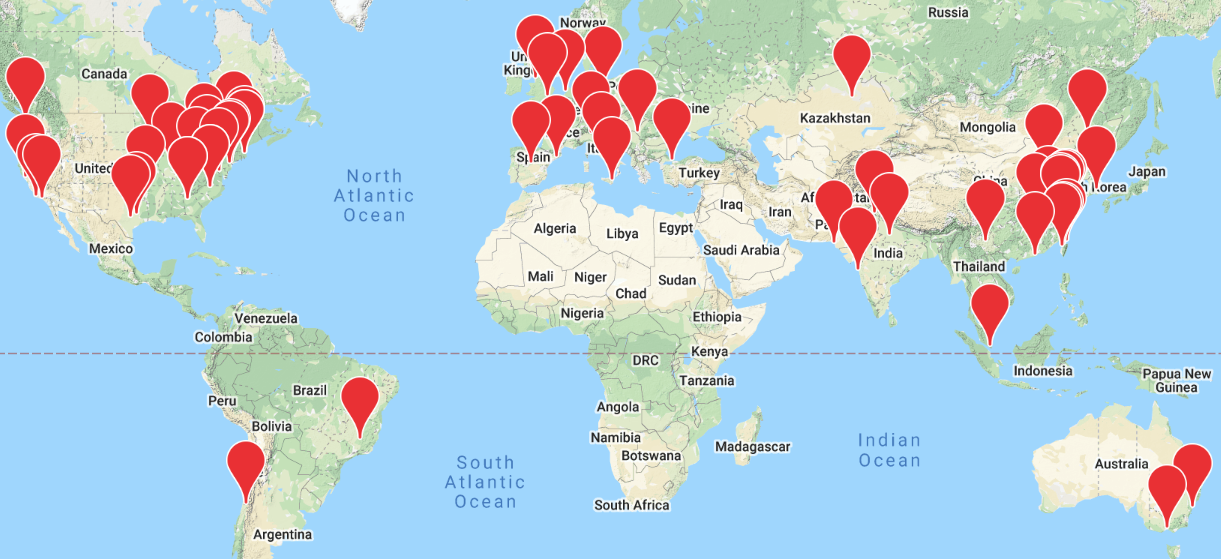
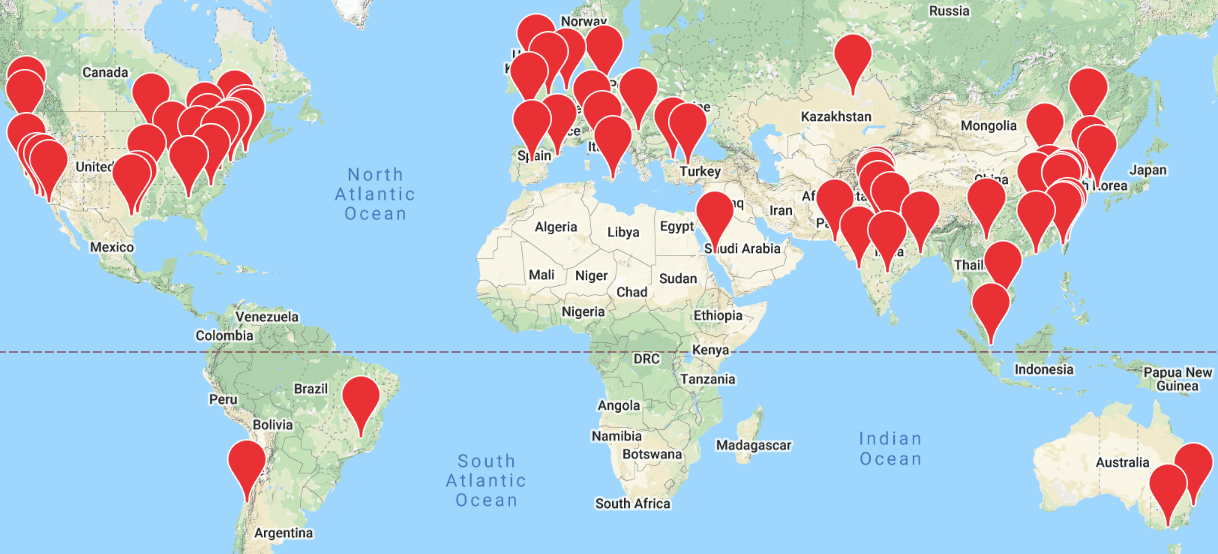
add 12 univs

diff --git a/static/frontpage/frontpage.html b/static/frontpage/frontpage.html
@@ -319,6 +319,7 @@ a {
         <div class = "mdl-cell mdl-cell--2-col"> <img src="./_images/logos/Duke_University_logo.svg" /> </div>
         <div class = "mdl-cell mdl-cell--2-col"> <img src="./_images/logos/emory.png" /> </div>
         <div class = "mdl-cell mdl-cell--2-col"> <img src="./_images/logos/fudan.svg" /></div>
+        <div class = "mdl-cell mdl-cell--2-col"> <img src="./_images/logos/gazi.png" /></div>
         <div class = "mdl-cell mdl-cell--2-col"> <img src="./_images/logos/georgia_tech.svg" /></div>
         <div class = "mdl-cell mdl-cell--2-col"> <img src="./_images/logos/Habib_University.png" /></div>
         <div class = "mdl-cell mdl-cell--2-col"> <img src="./_images/logos/HIT.png" /></div>
@@ -329,14 +330,21 @@ a {
         <div class = "mdl-cell mdl-cell--2-col"> <img src="./_images/logos/Imperial_college_london.svg" /></div>
         <div class = "mdl-cell mdl-cell--2-col"> <img src="./_images/logos/IIT-bombay.png" /></div>
         <div class = "mdl-cell mdl-cell--2-col"> <img src="./_images/logos/IIT_Kanpur.svg" /></div>
+        <div class = "mdl-cell mdl-cell--2-col"> <img src="./_images/logos/IIT_Kharagpur_Logo.svg" /></div>
+        <div class = "mdl-cell mdl-cell--2-col"> <img src="./_images/logos/Indian_Institute_of_Technology_Mandi_Logo.png" /></div>
         <div class = "mdl-cell mdl-cell--2-col"> <img src="./_images/logos/IIT_Ropar.png" /></div>
+        <div class = "mdl-cell mdl-cell--2-col"> <img src="./_images/logos/Indraprastha_Institute_of_Information_Technology_Delhi_Logo.png" /></div>
+        <div class = "mdl-cell mdl-cell--2-col"> <img src="./_images/logos/isen.png" /></div>
         <div class = "mdl-cell mdl-cell--2-col"> <img src="./_images/logos/Istanbul_Technical_University.svg" /></div>
+        <div class = "mdl-cell mdl-cell--2-col"> <img src="./_images/logos/KAUST_Logo.svg" /></div>
         <div class = "mdl-cell mdl-cell--2-col"> <img src="./_images/logos/kyungpook-national.png" /></div>
         <div class = "mdl-cell mdl-cell--2-col"> <img src="./_images/logos/lancaster-university.png" /></div>
         <div class = "mdl-cell mdl-cell--2-col"> <img src="./_images/logos/mit.svg" /></div>
         <div class = "mdl-cell mdl-cell--2-col"> <img src="./_images/logos/mcgill.png" /></div>
         <div class = "mdl-cell mdl-cell--2-col"> <img src="./_images/logos/Monash-shield.png" /></div>
         <div class = "mdl-cell mdl-cell--2-col"> <img src="./_images/logos/national_chung_hsing.png" /></div>
+        <div class = "mdl-cell mdl-cell--2-col"> <img src="./_images/logos/NITTTR.png" /></div>
+        <div class = "mdl-cell mdl-cell--2-col"> <img src="./_images/logos/National_Institute_of_Technology,_Warangal_logo.png" /></div>
         <div class = "mdl-cell mdl-cell--2-col"> <img src="./_images/logos/national_taiwan.png" /></div>
         <div class = "mdl-cell mdl-cell--2-col"> <img src="./_images/logos/National_United_University.svg" /></div>
         <div class = "mdl-cell mdl-cell--2-col"> <img src="./_images/logos/nus.png" /></div>
@@ -345,10 +353,12 @@ a {
         <div class = "mdl-cell mdl-cell--2-col"> <img src="./_images/logos/Ohio_University_seal.svg" /></div>
         <div class = "mdl-cell mdl-cell--2-col"> <img src="./_images/logos/peking.svg" /></div>
         <div class = "mdl-cell mdl-cell--2-col"> <img src="./_images/logos/Pontificia_Universidad_Catolica_de_Chile.svg" /></div>
+        <div class = "mdl-cell mdl-cell--2-col"> <img src="./_images/logos/Portland_State_University_seal.svg" /></div>
         <div class = "mdl-cell mdl-cell--2-col"> <img src="./_images/logos/Rutgers_University_seal.svg" /></div>
         <div class = "mdl-cell mdl-cell--2-col"> <img src="./_images/logos/sapienza.png" /></div>
         <div class = "mdl-cell mdl-cell--2-col"> <img src="./_images/logos/sjtu.png" /></div>
         <div class = "mdl-cell mdl-cell--2-col"> <img src="./_images/logos/Shanghai_University_of_Finance_and_Economics.png" /></div>
+        <div class = "mdl-cell mdl-cell--2-col"> <img src="./_images/logos/Sogang_Univ_logotype.png" /></div>
         <div class = "mdl-cell mdl-cell--2-col"> <img src="./_images/logos/Stevens_Institute_of_Technology.svg" /></div>
         <div class = "mdl-cell mdl-cell--2-col"> <img src="./_images/logos/tudelft.png" /></div>
         <div class = "mdl-cell mdl-cell--2-col"> <img src="./_images/logos/tamu.png" /></div>
@@ -362,6 +372,7 @@ a {
         <div class = "mdl-cell mdl-cell--2-col"> <img src="./_images/logos/University_of_Arkansas_seal.svg" /></div>
         <div class = "mdl-cell mdl-cell--2-col"> <img src="./_images/logos/UC-Berkeley.png" /></div>
         <div class = "mdl-cell mdl-cell--2-col"> <img src="./_images/logos/ucla.png" /></div>
+        <div class = "mdl-cell mdl-cell--2-col"> <img src="./_images/logos/UCSD_logo.png" /></div>
         <div class = "mdl-cell mdl-cell--2-col"> <img src="./_images/logos/ucsb.png" /></div>
         <div class = "mdl-cell mdl-cell--2-col"> <img src="./_images/logos/uiuc.png" /></div>
         <div class = "mdl-cell mdl-cell--2-col"> <img src="./_images/logos/u_maryland.svg" /></div>
@@ -372,6 +383,7 @@ a {
         <div class = "mdl-cell mdl-cell--2-col"> <img src="./_images/logos/University_of_Technology_Sydney.png" /></div>
         <div class = "mdl-cell mdl-cell--2-col"> <img src="./_images/logos/uw.png" /></div>
         <div class = "mdl-cell mdl-cell--2-col"> <img src="./_images/logos/university-of-waterloo.png" /></div>
+        <div class = "mdl-cell mdl-cell--2-col"> <img src="./_images/logos/vietnamese-german.png" /></div>
         <div class = "mdl-cell mdl-cell--2-col"> <img src="./_images/logos/Yunnan_University.png" /></div>
         <div class = "mdl-cell mdl-cell--2-col"> <img src="./_images/logos/UPC.svg" /></div>
         <div class = "mdl-cell mdl-cell--2-col"> <img src="./_images/logos/Zhejiang_University.svg" /></div>
@@ -395,6 +407,7 @@ a {
         ['Duke University', 36.001443, -78.938250],
         ['Emory University', 33.797164, -84.322272],
         ['Fudan University', 31.297640, 121.503629],
+        ['Gazi Üniversitesi', 39.941808, 32.823059],
         ['Georgia Institute of Technology', 33.775444, -84.396371],
         ['Habib University', 24.905933, 67.138266],
         ['Harbin Institute of Technology', 45.747036, 126.633527],
@@ -405,14 +418,21 @@ a {
         ['Imperial College London', 51.498741, -0.174802],
         ['Indian Institute of Technology Bombay', 19.134282, 72.912646],
         ['Indian Institute of Kanpur', 26.512224, 80.233533],
+        ['Indian Institute of Technology Kharagpur', 22.314590, 87.310477],
+        ['Indian Institute of Technology Mandi', 31.775372, 76.986182],
         ['Indian Institute of Technology Ropar',  30.976563, 76.538215],
+        ['Indraprastha Institute of Information Technology, Delhi', 28.545440, 77.273419],
+        ['Institut Supérieur De L electronique Et Du Numérique', 48.407048, -4.495404],
         ['İstanbul Teknik Üniversitesi', 41.105424, 29.025383],
+        ['King Abdullah University of Science and Technology', 22.309455, 39.104804],
         ['Kyungpook National University', 35.888949, 128.610718],
         ['Lancaster University', 54.009934, -2.785905],
         ['Massachusetts Institute of Technology', 42.360281, -71.093098],
         ['McGill University', 45.504939, -73.577136],
         ['Monash University', -37.915704, 145.152934],
         ['National Chung Hsing University', 24.123679, 120.675380],
+        ['National Institute of Technical Teachers Training & Research', 30.729031, 76.807565],
+        ['National Institute of Technology, Warangal', 17.983721, 79.530946],
         ['National Taiwan University', 25.017350, 121.539655],
         ['National United University', 24.545702, 120.811728],
         ['National University of Singapore', 1.296520, 103.776442],
@@ -421,10 +441,12 @@ a {
         ['Ohio University', 39.324372, -82.101379 ],
         ['Peking University', 39.987012, 116.305112],
         ['Pontificia Universidad Católica de Chile', -33.441277, -70.640809],
+        ['Portland State University', 45.511132, -122.683424],
         ['Rutgers, The State University of New Jersey', 40.500694, -74.447496],
         ['Sapienza Università di Roma', 41.903379, 12.514557],
         ['Shanghai Jiao Tong University', 31.024733, 121.433617],
         ['Shanghai University of Finance and Economics',31.306851, 121.493008],
+        ['Sogang University', 37.550944, 126.941024],
         ['Stevens Institute of Technology', 40.745038, -74.024795],
         ['Technische Universiteit Delft', 51.996068, 4.375953],
         ['Texas A&M University', 30.617810, -96.333042],
@@ -438,6 +460,7 @@ a {
         ['University of Arkansas', 36.068646, -94.175019],
         ['University of California, Berkeley', 37.872119, -122.259398],
         ['University of California, Los Angeles', 34.068512, -118.444870],
+        ['University of California, San Diego', 32.879952, -117.234003],
         ['University of California, Santa Barbara', 34.413981, -119.849795],
         ['University of Illinois at Urbana-Champaign', 40.102379, -88.227408],
         ['University of Maryland',38.987052, -76.943692],
@@ -448,6 +471,7 @@ a {
         ['University of Technology Sydney', -33.883371, 151.200612],
         ['University of Washington',47.660589, -122.315527],
         ['University of Waterloo',43.472278, -80.544707],
+        ['Vietnamese-German University', 11.054337, 106.665432],
         ['Yunnan University',25.053496, 102.703883],
         ['Universitat Politècnica de Catalunya', 41.387674, 2.113366],
         ['Zhejiang University', 30.308629, 120.086156],
@@ -487,6 +511,7 @@ a {
         Duke University<br>
         Emory University<br>
         Fudan University<br>
+        Gazi Üniversitesi<br>
         Georgia Institute of Technology<br>
         Habib University<br>
         Harbin Institute of Technology<br>
@@ -497,14 +522,21 @@ a {
         Imperial College London<br>
         Indian Institute of Technology Bombay<br>
         Indian Institute of Technology Kanpur<br>
+        Indian Institute of Technology Kharagpur<br>
+        Indian Institute of Technology Mandi<br>
         Indian Institute of Technology Ropar<br>
+        Indraprastha Institute of Information Technology, Delhi<br>
+        Institut Supérieur De L'electronique Et Du Numérique<br>
         İstanbul Teknik Üniversitesi<br>
+        King Abdullah University of Science and Technology<br>
         Kyungpook National University<br>
         Lancaster University<br>
         Massachusetts Institute of Technology<br>
         McGill University<br>
         Monash University<br>
         National Chung Hsing University<br>
+        National Institute of Technical Teachers Training&amp;Research<br>
+        National Institute of Technology, Warangal<br>
         National Taiwan University<br>
         National United University<br>
         National University of Singapore<br>
@@ -513,10 +545,12 @@ a {
         Ohio University<br>
         Peking University<br>
         Pontificia Universidad Católica de Chile<br>
+        Portland State University<br>
         Rutgers, The State University of New Jersey<br>
         Sapienza Università di Roma<br>
         Shanghai Jiao Tong University<br>
         Shanghai University of Finance and Economics<br>
+        Sogang University<br>
         Stevens Institute of Technology<br>
         Technische Universiteit Delft<br>
         Texas A&amp;M University<br>
@@ -530,6 +564,7 @@ a {
         University of Arkansas<br>
         University of California, Berkeley<br>
         University of California, Los Angeles<br>
+        University of California, San Diego<br>
         University of California, Santa Barbara<br>
         University of Illinois at Urbana-Champaign<br>
         University of Maryland<br>
@@ -540,6 +575,7 @@ a {
         University of Technology Sydney<br>
         University of Washington<br>
         University of Waterloo<br>
+        Vietnamese-German University<br>
         Yunnan University<br>
         Universitat Politècnica de Catalunya<br>
         Zhejiang University
